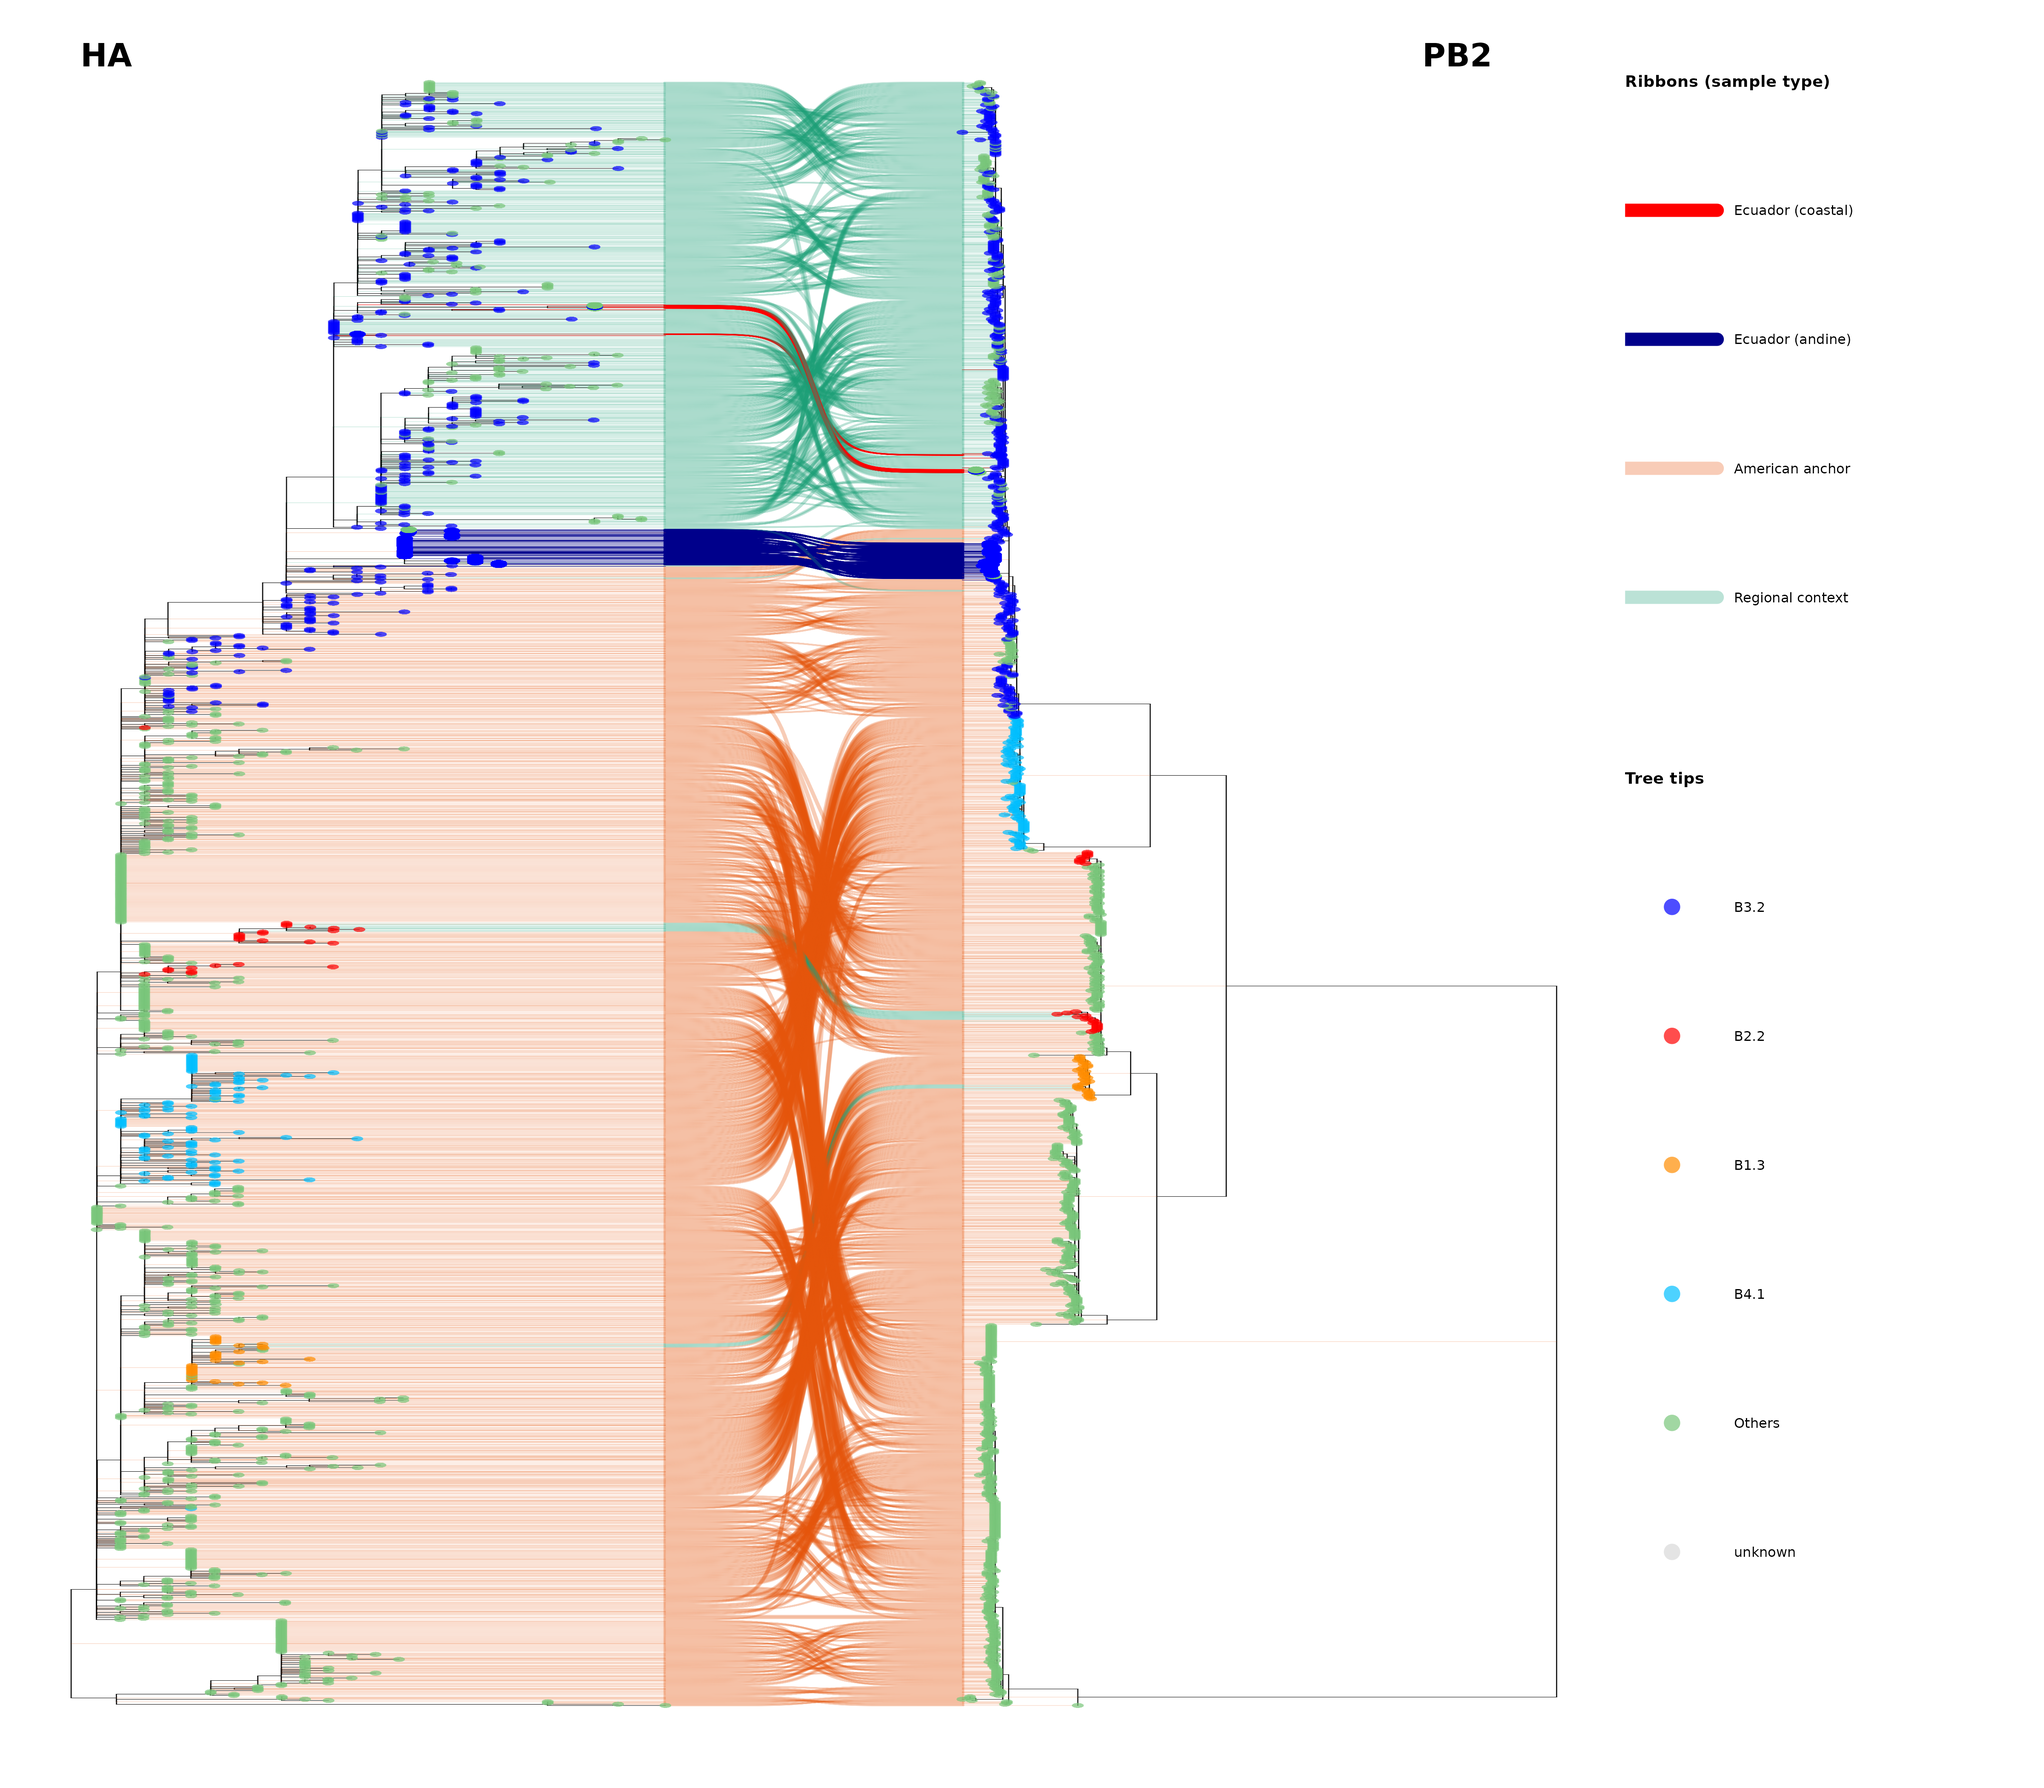
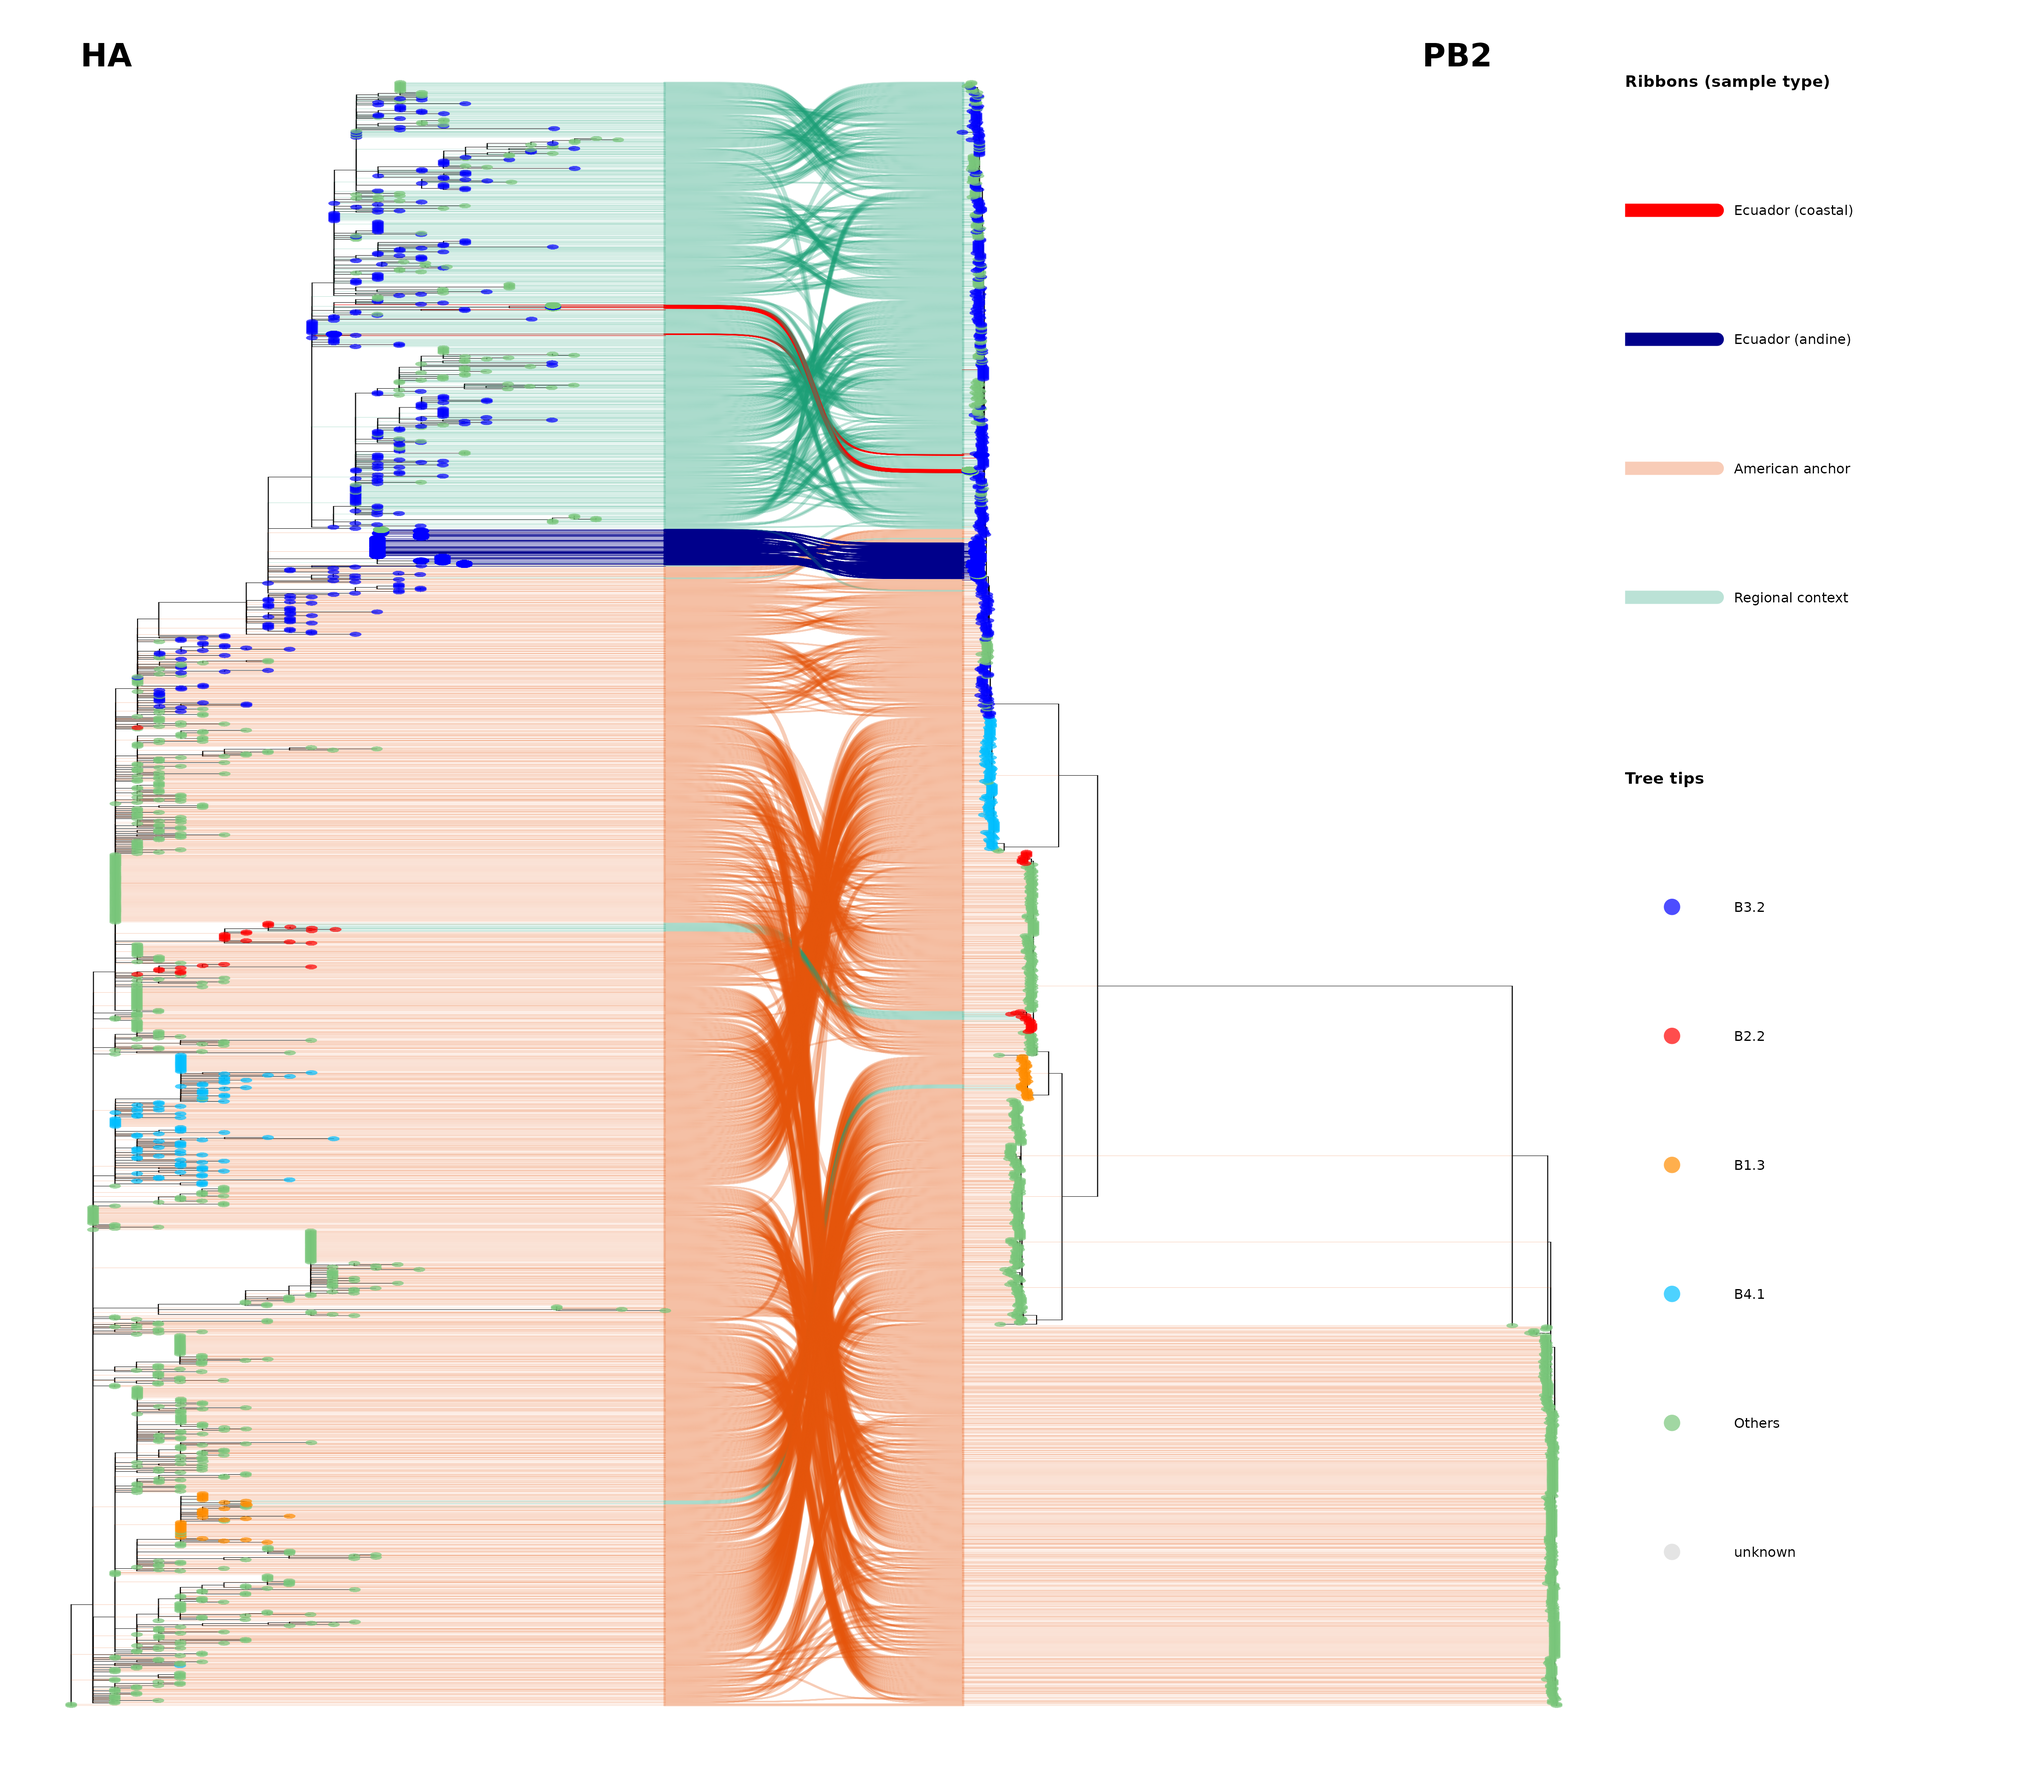
added qc metrics to rule all and changed HA reporting to include mediocre HA

Changed region(s): [[0.0312, 0.0312, 0.7812, 0.9669], [0.0312, 0.0312, 0.3125, 0.5302]]

diff --git a/code/build_inputs/filter_qc_nextclade.py b/code/build_inputs/filter_qc_nextclade.py
@@ -209,10 +209,9 @@ def main():
     if discard_set:
         print(f"Discarded IDs: {sorted(list(discard_set))}")
 
-    discarded_only = [r for r in summary_rows if r.get("qc_action") == "DISCARDED"]
     if args.discarded_csv:
-        write_discarded_rows(args.discarded_csv, discarded_only, NEXTCLADE_DISCARD_FIELDS)
-        print(f"Written QC report CSV: {args.discarded_csv} ({len(discarded_only)} discarded)")
+        write_discarded_rows(args.discarded_csv, summary_rows, NEXTCLADE_DISCARD_FIELDS)
+        print(f"Written QC report CSV: {args.discarded_csv} ({len(summary_rows)} rows)")
     if args.discarded_csv_only:
         return
 
